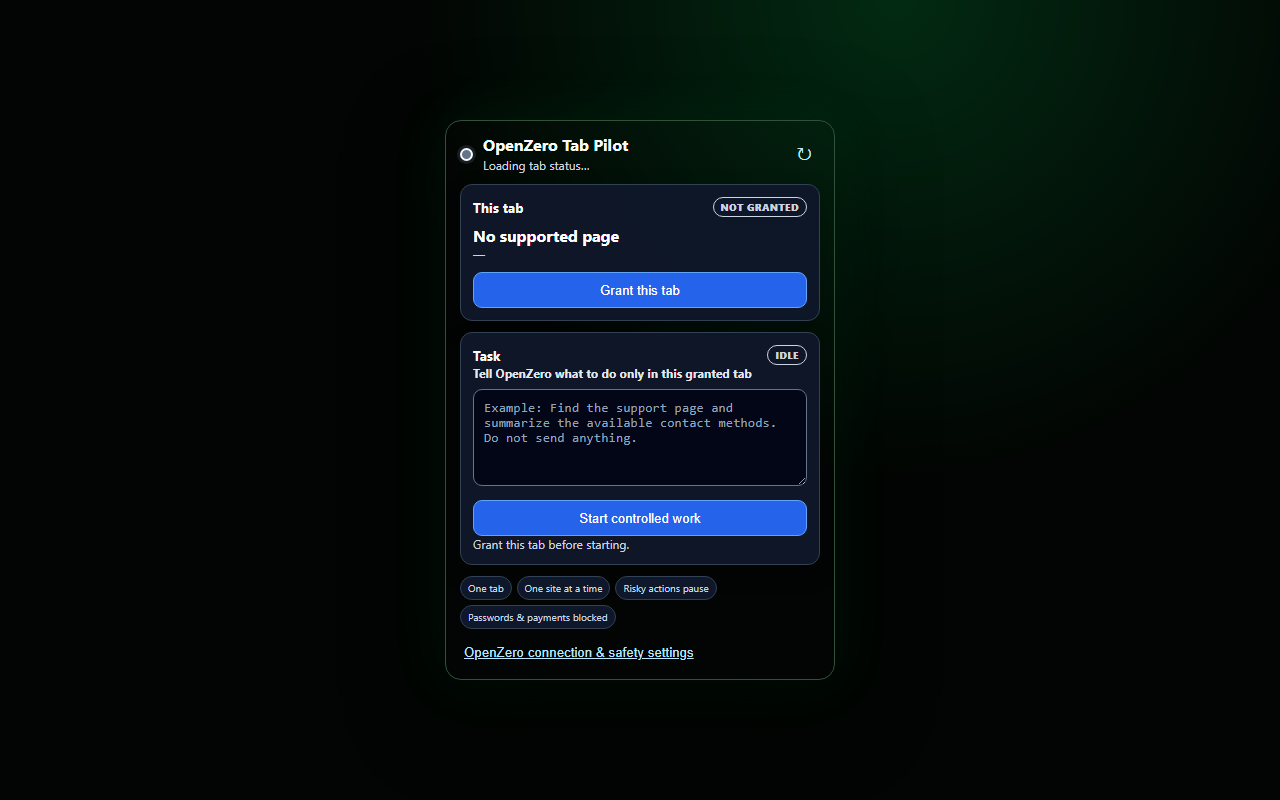
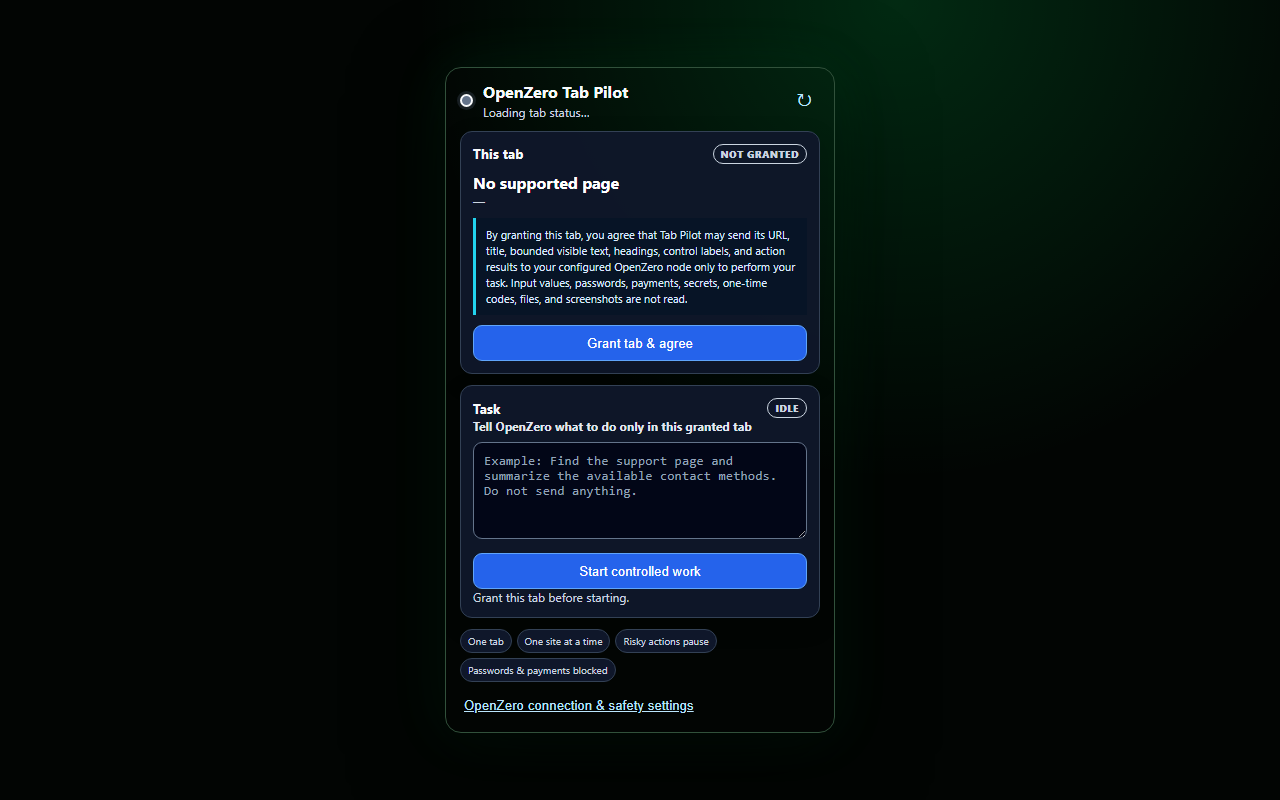
Add prominent Tab Pilot data consent

Changed region(s): [[0.3438, 0.0938, 0.6562, 0.9062]]

diff --git a/browser-extension/src/popup.html b/browser-extension/src/popup.html
@@ -26,8 +26,15 @@
         </div>
         <p id="page-title" class="strong">No supported page</p>
         <p id="page-origin" class="muted wrap">—</p>
+        <p class="grant-disclosure">
+          By granting this tab, you agree that Tab Pilot may send its URL, title,
+          bounded visible text, headings, control labels, and action results to
+          your configured OpenZero node only to perform your task. Input values,
+          passwords, payments, secrets, one-time codes, files, and screenshots
+          are not read.
+        </p>
         <div class="button-row">
-          <button id="grant" class="primary" type="button">Grant this tab</button>
+          <button id="grant" class="primary" type="button">Grant tab &amp; agree</button>
           <button id="revoke" class="danger hidden" type="button">Stop &amp; revoke</button>
         </div>
         <button id="forget-site" class="text-button hidden" type="button">Forget saved access to this site</button>

diff --git a/browser-extension/src/popup.css b/browser-extension/src/popup.css
@@ -130,6 +130,16 @@ label + textarea {
   line-height: 1.45;
 }
 
+.grant-disclosure {
+  margin-top: 9px;
+  padding: 9px 10px;
+  border-left: 3px solid #22d3ee;
+  color: #dbeafe;
+  background: #071426;
+  font-size: 11px;
+  line-height: 1.45;
+}
+
 .wrap {
   overflow-wrap: anywhere;
 }

diff --git a/browser-extension/scripts/package.py b/browser-extension/scripts/package.py
@@ -3,13 +3,15 @@
 from __future__ import annotations
 
 import hashlib
+import json
 from pathlib import Path
 from zipfile import ZIP_DEFLATED, ZipFile, ZipInfo
 
 
 ROOT = Path(__file__).resolve().parent.parent
 DIST = ROOT / "dist"
-OUTPUT = DIST / "OpenZero-Tab-Pilot-Brave-v0.2.0.zip"
+VERSION = json.loads((ROOT / "manifest.json").read_text(encoding="utf-8"))["version"]
+OUTPUT = DIST / f"OpenZero-Tab-Pilot-Brave-v{VERSION}.zip"
 CHECKSUM = OUTPUT.with_suffix(OUTPUT.suffix + ".sha256")
 FIXED_TIME = (2026, 1, 1, 0, 0, 0)
 FILES = [
